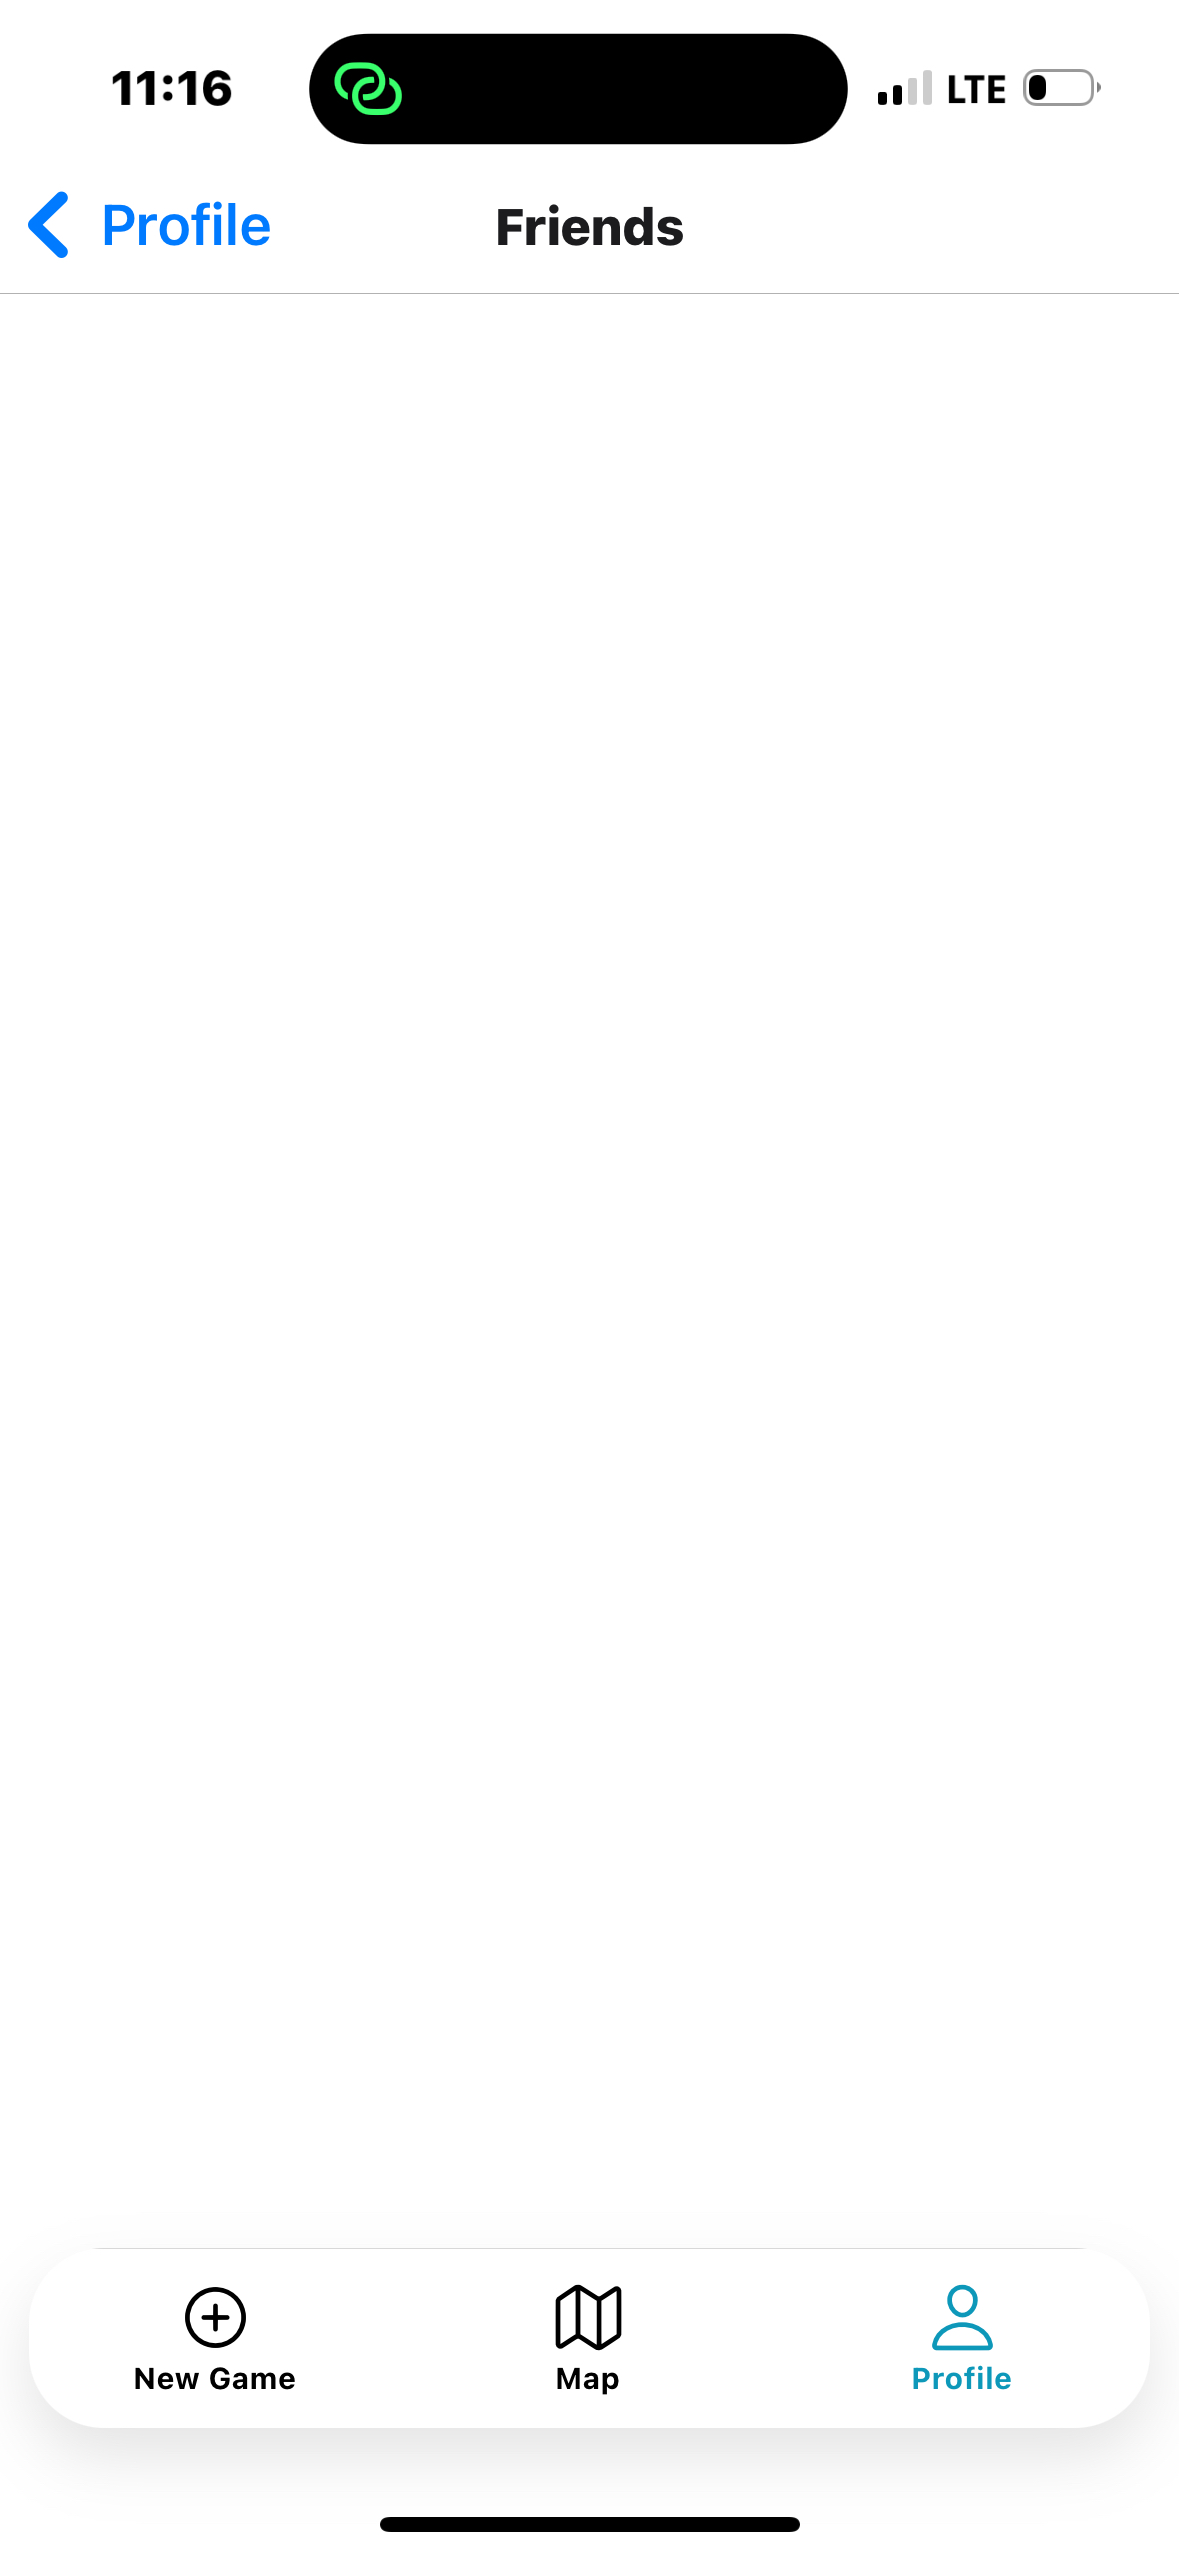
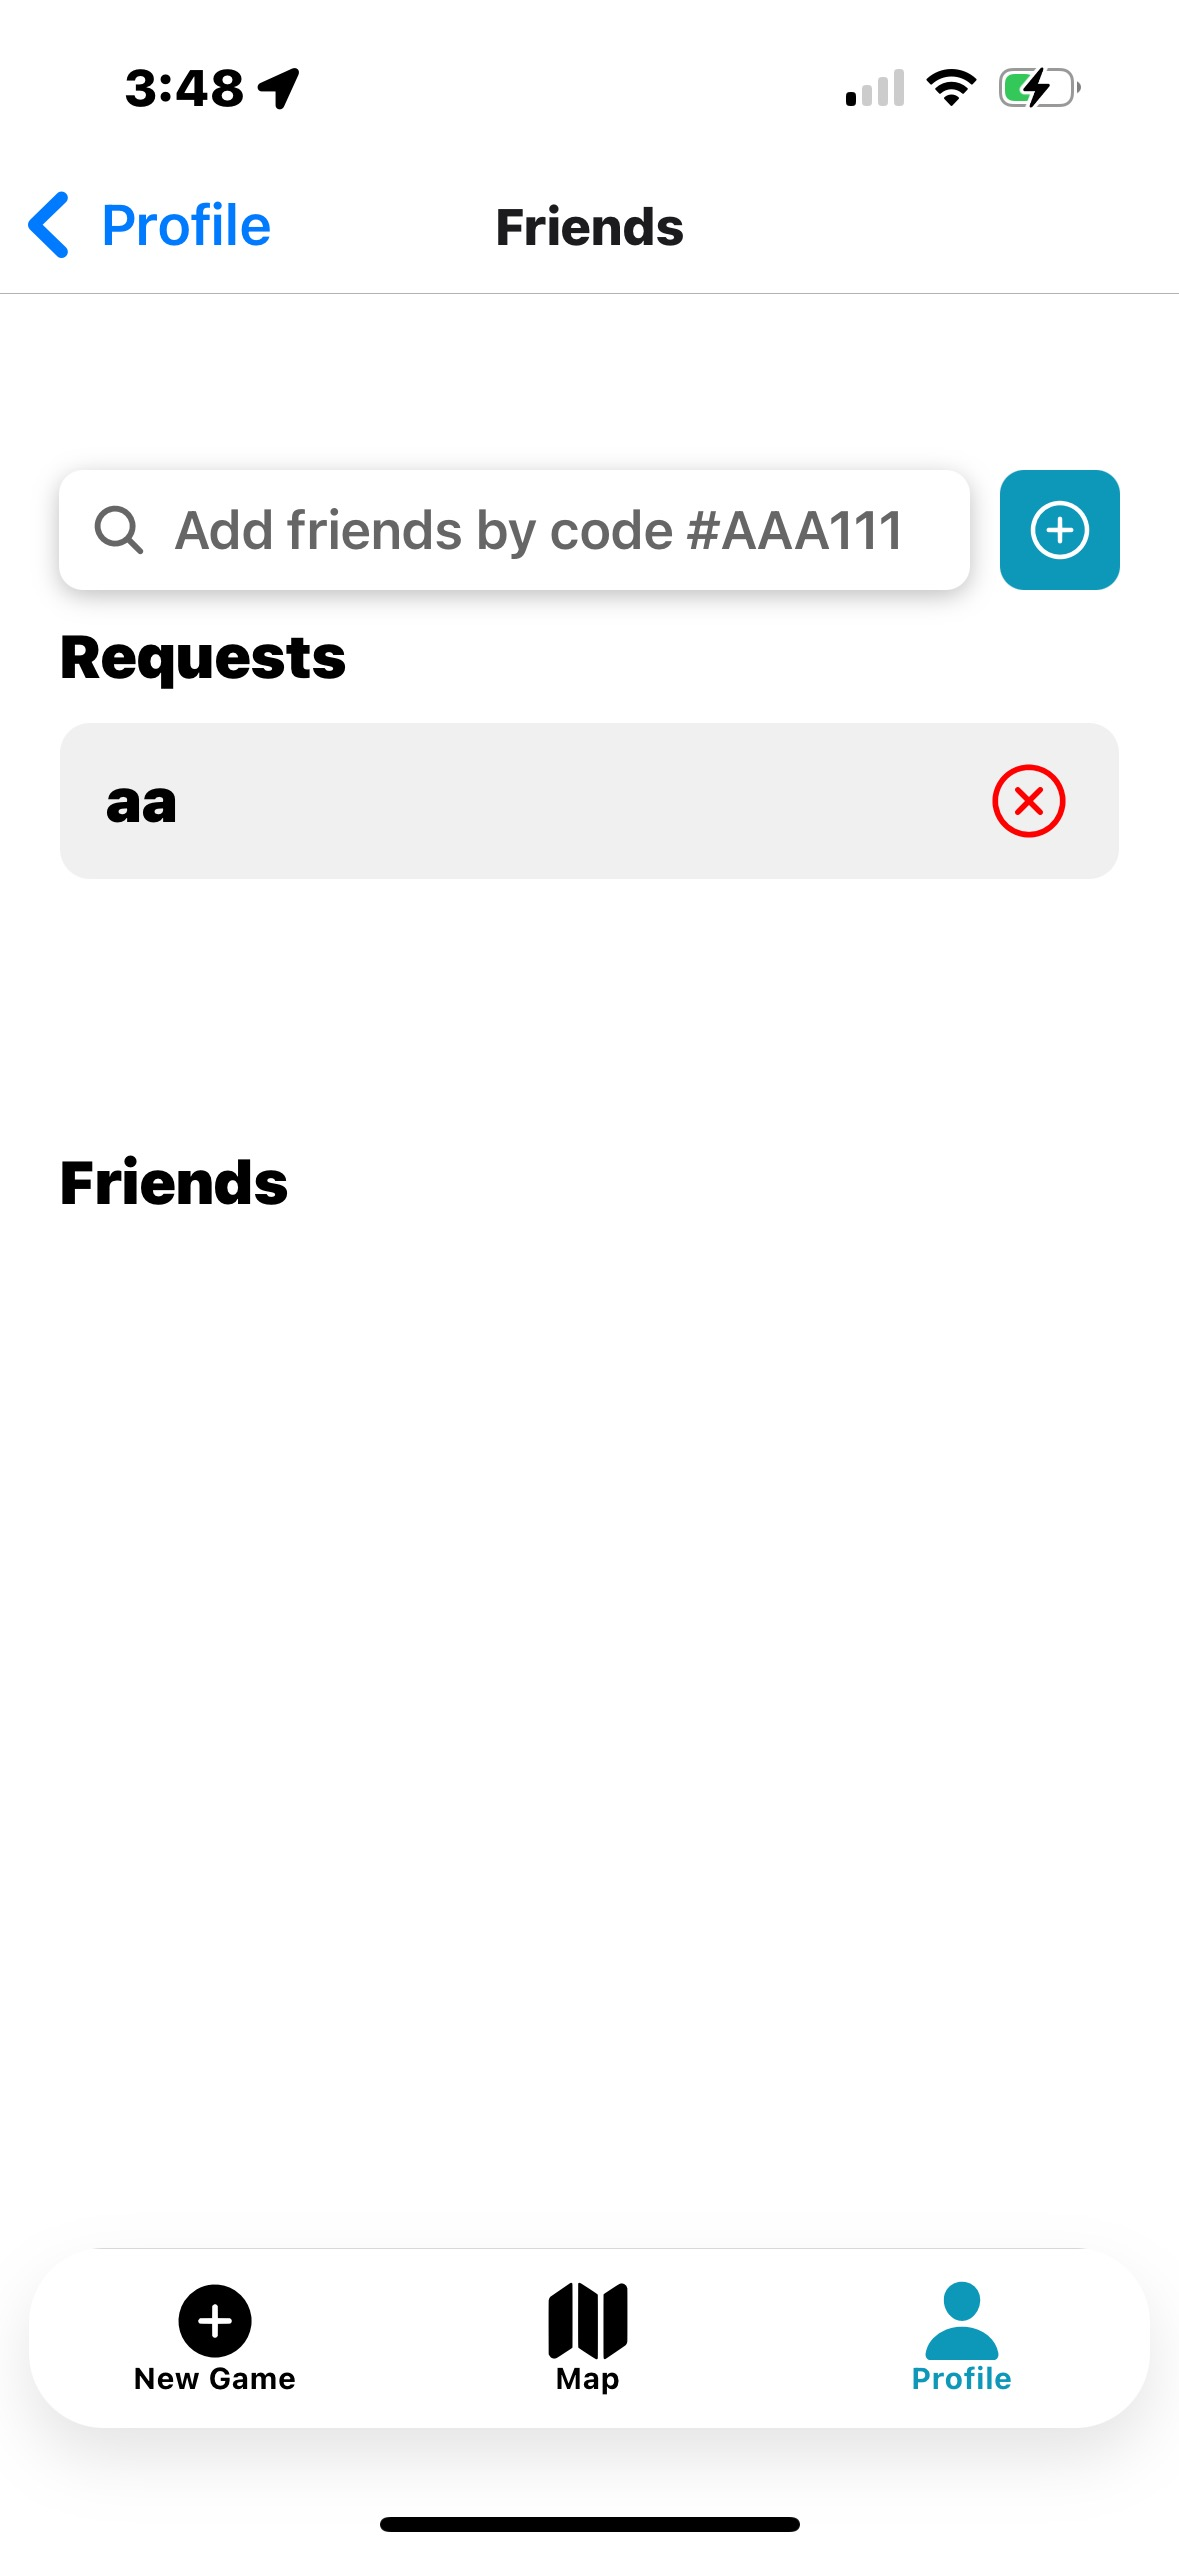
update README.md

diff --git a/README.md b/README.md
@@ -11,15 +11,46 @@
 <li>Created and refactored the app into components</li>
 <li>Created the UserContext</li>
 <li>Created the CreateAccountModal</li>
-<li>Implmented User creation process including forgot password and anoynmous sign in found under <b>Authentication/User Creation Proccess</b></li>
-<li>Assisted in app navigation logic/bug fixs</li>
+<li>Implemented User creation process including forgot password and anonymous sign in found under <b>Authentication/User Creation Process</b></li>
+<li>Assisted in app navigation logic/bug fixes</li>
+<li>Implemented friend request system including:
+  <ul>
+    <li>Send friend requests functionality</li>
+    <li>Accept and reject friend requests</li>
+    <li>Friend puzzle screen implementation</li>
+    <li>Modified helper functions for friend information retrieval</li>
+    <li>Updated request status display for outgoing requests</li>
+  </ul>
+</li>
+<li>Enhanced UI/UX with bottom tab bar improvements and navigation flow optimization</li>
 </l>
 
 <h3>Sisi You</h3>
-<p><a href="https://northeastern.sharepoint.com/:v:/s/111396/EYIvINBagmhDoKTRfQYpvfUB3Q7I3Oq9YSaQTKU2tHNTBA?e=MqnbYw&nav=eyJyZWZlcnJhbEluZm8iOnsicmVmZXJyYWxBcHAiOiJTdHJlYW1XZWJBcHAiLCJyZWZlcnJhbFZpZXciOiJTaGFyZURpYWxvZy1MaW5rIiwicmVmZXJyYWxBcHBQbGF0Zm9ybSI6IldlYiIsInJlZmVycmFsTW9kZSI6InZpZXcifX0%3D">CodeWalk Iteration 1</a></p>
+<p><a href="https://northeastern.sharepoint.com/:v:/s/111396/EYIvINBagmhDoKTRfQYpvfUB3Q7I3Oq9YSaQTKU2tHNTBA?e=MqnbYw">CodeWalk Iteration 1</a></p>
 <l>
 <li>Implemented Stack & Tab Navigation under <b>Navigation</b></li>
 <li>Co-developed Firebase setup</li>
+<li>Developed New Game creation functionality:
+  <ul>
+    <li>Implemented photo capture functionality</li>
+    <li>Created puzzle generation from photos</li>
+    <li>Implemented puzzle storage in user profiles</li>
+    <li>Integrated Google Cloud Vision API for photo validation:
+      <ul>
+        <li>Landmark and building detection</li>
+        <li>Face detection for privacy protection</li>
+        <li>Automatic validation of appropriate photo content</li>
+      </ul>
+    </li>
+  </ul>
+</li>
+<li>Enhanced Map Screen features:
+  <ul>
+    <li>Added interactive location markers for puzzle viewing</li>
+    <li>Implemented search bar functionality</li>
+    <li>Added puzzle difficulty filtering</li>
+  </ul>
+</li>
 </l>
 
 <h2>Naviagtion</h2>
@@ -57,6 +88,10 @@
   <div style="width: 25%; margin-bottom: 20px;">
     <img src="screenshots/camera.PNG" alt="Camera Screen" style="width: 40%;">
     <p><strong>Camera Screen</strong></p>
+  </div>
+    <div style="width: 25%; margin-bottom: 20px;">
+    <img src="screenshots/puzzle.PNG" alt="Puzzle Screen" style="width: 40%;">
+    <p><strong>Puzzle Screen</strong></p>
   </div>
 </div>
 
@@ -159,3 +194,135 @@
 
 <h2>Citations</h2>
 <p></p>
+
+<h2>Installation and Setup</h2>
+
+<h3>Prerequisites</h3>
+<ul>
+  <li>Node.js (v18 or higher)</li>
+  <li>npm or yarn</li>
+  <li>Expo CLI (`npm install -g expo-cli`)</li>
+  <li>Expo Go app on your mobile device</li>
+</ul>
+
+<h3>Environment Setup</h3>
+
+1. Clone the repository:
+```bash
+git clone https://github.com/your-username/Photo-Hunt.git
+cd Photo-Hunt
+```
+
+2. Install dependencies:
+```bash
+npm install
+```
+
+3. Required Configuration Files:
+
+<h4>Service Account Setup</h4>
+<p>The app requires a Google Cloud Vision API service account for photo validation. Follow these steps:</p>
+
+1. Create a file named `service-account.json` in the `config` directory
+2. Contact the development team to obtain the service account credentials
+3. The file structure should look like this:
+```json
+{
+  "type": "service_account",
+  "project_id": "your-project-id",
+  "private_key_id": "your-private-key-id",
+  "private_key": "your-private-key",
+  "client_email": "your-client-email",
+  "client_id": "your-client-id",
+  "auth_uri": "https://accounts.google.com/o/oauth2/auth",
+  "token_uri": "https://oauth2.googleapis.com/token",
+  "auth_provider_x509_cert_url": "https://www.googleapis.com/oauth2/v1/certs",
+  "client_x509_cert_url": "your-cert-url"
+}
+```
+
+<h3>Running the App</h3>
+
+1. Start the development server:
+```bash
+npx expo start
+```
+
+2. Running on a physical device:
+   - Install Expo Go on your mobile device
+   - Scan the QR code shown in the terminal with:
+     - iOS: Camera app
+     - Android: Expo Go app
+
+3. Running on simulators:
+   - iOS (requires macOS):
+     ```bash
+     npx expo start --ios
+     ```
+   - Android:
+     ```bash
+     npx expo start --android
+     ```
+
+<h3>Troubleshooting</h3>
+<ul>
+  <li>If you encounter any issues with dependencies, try:
+    ```bash
+    npm install
+    npx expo install
+    ```
+  </li>
+  <li>For camera permissions issues, ensure you've granted necessary permissions in your device settings</li>
+  <li>If the app fails to connect to Firebase, verify your network connection and Firebase configuration</li>
+</ul>
+
+<h3>Development Notes</h3>
+<ul>
+  <li>The app requires location services to be enabled for full functionality</li>
+  <li>Photo validation requires an active internet connection</li>
+  <li>For testing puzzle creation, ensure you have access to locations with recognizable landmarks or buildings</li>
+</ul>
+
+<h2>State Management</h2>
+<p>The application uses React's Context API for state management, implementing several context providers to handle different aspects of the application state.</p>
+
+<h3>Context Providers</h3>
+
+<h4>1. User Context</h4>
+<p>Manages user authentication and profile state throughout the application.</p>
+<ul>
+  <li><strong>Location:</strong> `components/UserContext`</li>
+  <li><strong>Key Features:</strong>
+    <ul>
+      <li>User authentication state</li>
+      <li>User profile data management</li>
+      <li>Real-time user data updates</li>
+    </ul>
+  </li>
+  <li><strong>Usage Example:</strong>
+    ```typescript
+    const { user } = useUser();
+    ```
+  </li>
+</ul>
+
+<h4>2. Selected Location Context</h4>
+<p>Handles the state of selected locations for puzzle creation and gameplay.</p>
+<ul>
+  <li><strong>Location:</strong> `components/SelectedLocationContext`</li>
+  <li><strong>Key Features:</strong>
+    <ul>
+      <li>Current selected location coordinates</li>
+      <li>Location name and metadata</li>
+      <li>Location selection state for puzzle creation</li>
+    </ul>
+  </li>
+  <li><strong>Usage Example:</strong>
+    ```typescript
+    const { selectedLocation } = useSelectedLocation();
+    ```
+  </li>
+</ul>
+
+<h3>State Flow</h3>
+<p>The application follows a hierarchical state management pattern:</p>
